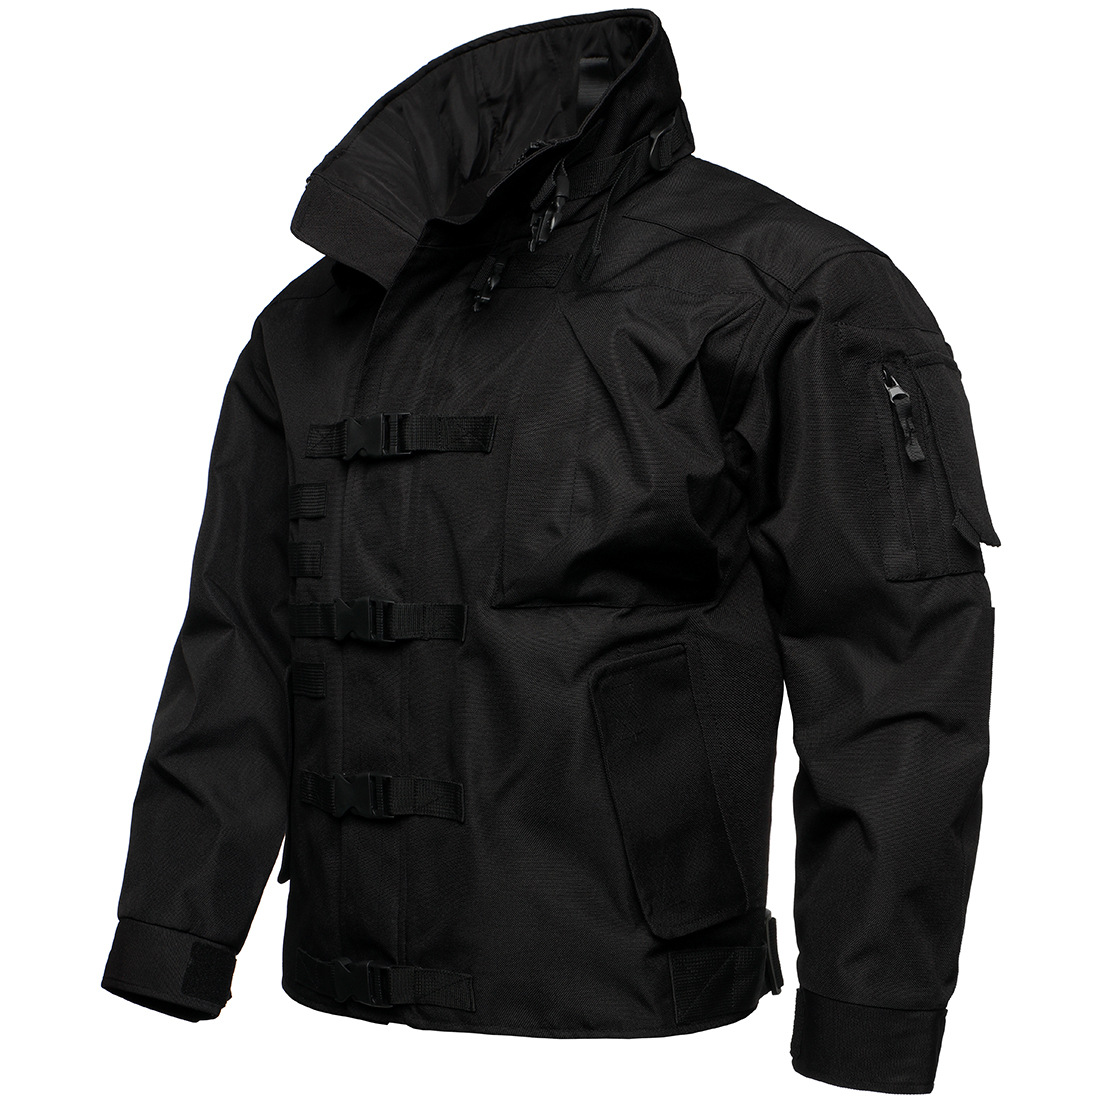
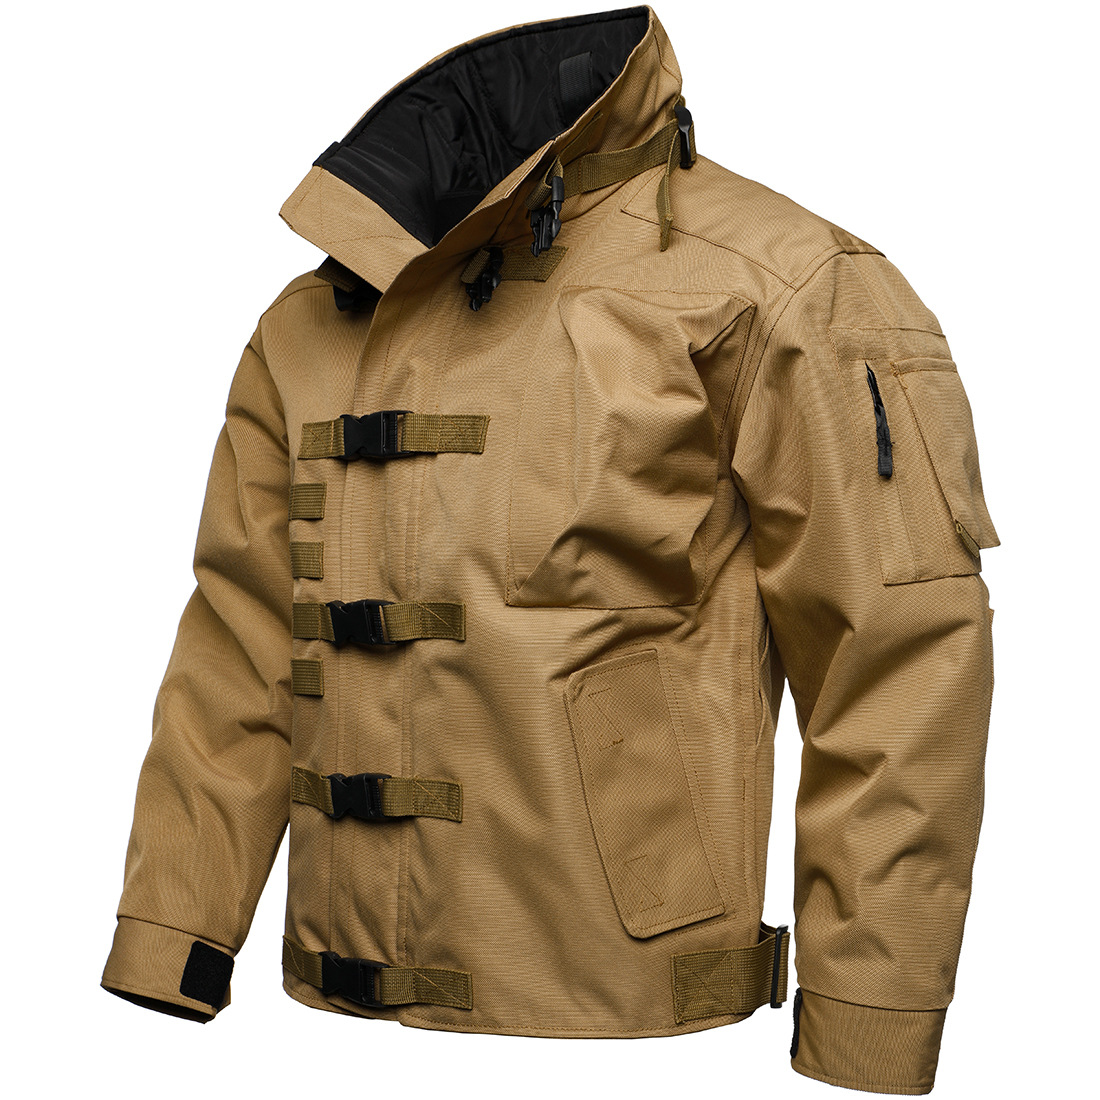
productpage개조짐

diff --git a/src/app/shop/[slug]/page.js b/src/app/shop/[slug]/page.js
@@ -2,8 +2,6 @@ import React from "react";
 import products from "../../../data/products.json"; // Adjust this path if necessary
 import Image from "next/image";
 import { notFound } from "next/navigation";
-import fs from "fs";
-import path from "path";
 import { FaCartShopping, FaStar } from "react-icons/fa6";
 import ColorAndSize from "@/components/productPage/ColorAndSize";
 import Carousel from "@/components/productPage/Carousel";
@@ -17,50 +15,45 @@ export default function ProductPage({ params }) {
   }
 
   return (
-    <div className="flex w-full justify-center">
-      <div className="w-3/4 p-6">
+    <div className="flex w-full justify-center bg-white text-slate-800">
+      <div className="max-w-4xl p-6">
         {/* Product Header with Carousel */}
         <div className="flex flex-col lg:flex-row items-center lg:items-center justify-center gap-6 mb-10">
-          {/* Carousel */}
           <Carousel product={product} />
-          <div className="max-w-6xl mx-auto p-6">
-            <div className="flex flex-col md:flex-row gap-8">
-              <div className="space-y-4">
-                <h1 className="text-3xl font-bold">{product.name}</h1>
-                <div className="flex items-center space-x-2">
-                  <span className="text-2xl font-semibold">
-                    ${product.price}
-                  </span>
-                  <div>
-                    <div className="flex items-center">
-                      {[...Array(5)].map((_, i) => (
-                        <FaStar
-                          key={i}
-                          className={`w-3 h-3 ${
-                            i < Math.floor(product.rating)
-                              ? "text-yellow-400"
-                              : "text-gray-300"
-                          }`}
-                        />
-                      ))}
-                    </div>
-                    <a href="#" className="text-xs text-blue-600">
-                      {product.reviewCount}개의 리뷰
-                    </a>
-                  </div>
-                </div>
-                {/* 컬러와사이즈 (client side) */}
-                <ColorAndSize colors={product.colors} sizes={product.sizes} />
-
-                <button className="w-full bg-blue-600 text-white py-3 rounded-lg flex items-center justify-center">
-                  <FaCartShopping className="mr-2" />
-                  Add to cart
-                </button>
-
+          <div className="mx-auto p-6">
+            {/* 오른쪽전체간격 */}
+            <div className="space-y-8">
+              <h1 className="text-3xl font-bold">{product.name}</h1>
+              <p className="text-gray-400">{product.description}</p>
+              <div className="flex items-center space-x-2">
+                <span className="text-2xl font-semibold">
+                  {product.price}원
+                </span>
                 <div>
-                  <p className="text-gray-600">{product.description}</p>
+                  <div className="flex items-center">
+                    {[...Array(5)].map((_, i) => (
+                      <FaStar
+                        key={i}
+                        className={`w-3 h-3 ${
+                          i < Math.floor(product.rating)
+                            ? "text-yellow-400"
+                            : "text-gray-300"
+                        }`}
+                      />
+                    ))}
+                  </div>
+                  <a href="#" className="text-xs text-primary">
+                    {product.reviewCount}개의 리뷰
+                  </a>
                 </div>
               </div>
+              {/* 컬러와사이즈 (client side) */}
+              <ColorAndSize colors={product.colors} sizes={product.sizes} />
+
+              <button className="w-full bg-primary text-white py-3 rounded-lg flex items-center justify-center">
+                <FaCartShopping className="mr-2" />
+                장바구니담기
+              </button>
             </div>
           </div>
         </div>

diff --git a/src/components/productPage/Carousel.js b/src/components/productPage/Carousel.js
@@ -2,11 +2,12 @@ import React from "react";
 import fs from "fs";
 import path from "path";
 import Image from "next/image";
+import Link from "next/link";
 
 export default function Carousel({ product }) {
   return (
     <div>
-      <div className="carousel">
+      <div className="carousel max-w-xl">
         {[1, 2, 3, 4, 5].map((index) => {
           const imagePath = `/products/${product.id}/thumbnail_${index}.jpg`;
           const imageExists = fs.existsSync(
@@ -16,7 +17,7 @@ export default function Carousel({ product }) {
           if (imageExists) {
             return (
               <div
-                id={`slide${index + 1}`}
+                id={`slide${index}`}
                 key={index}
                 className="carousel-item relative w-full"
               >
@@ -27,20 +28,26 @@ export default function Carousel({ product }) {
                   height={500}
                   className="object-cover"
                 />
-                <div className="absolute left-5 right-5 top-1/2 flex -translate-y-1/2 transform justify-between">
+                <div className="flex absolute text-3xl text-slate-300 left-5 right-5 top-1/2 -translate-y-1/2 transform justify-between">
                   <a
                     href={
-                      index < 1 ? `#slide${index + 4}` : `#slide${index - 1}`
+                      index === 1
+                        ? `#slide${
+                            [2, 3, 4, 5].includes(index + 4) ? index + 4 : 1
+                          }`
+                        : `#slide${index - 1}`
                     }
-                    className="btn btn-circle"
                   >
                     ❮
                   </a>
                   <a
                     href={
-                      index > 3 ? `#slide${index - 3}` : `#slide${index + 1}`
+                      index === 5
+                        ? `#slide${
+                            [1, 2, 3, 4].includes(index - 3) ? index - 3 : 5
+                          }`
+                        : `#slide${index + 1}`
                     }
-                    className="btn btn-circle"
                   >
                     ❯
                   </a>

diff --git a/src/app/contact/page.js b/src/app/contact/page.js
@@ -15,13 +15,13 @@ export default function Contact() {
   };
 
   return (
-    <div className="container mx-auto p-4 m-16 w-1/4">
+    <div className="flex flex-col gap-4 container mx-auto p-4 m-16 w-full md:w-1/2 xl:w-1/4">
       <h1 className="text-3xl font-bold mb-4">Contact us</h1>
-      <form onSubmit={handleSubmit}>
+      <form onSubmit={handleSubmit} className="flex flex-col gap-4">
         <div className="form-control">
-          <label>Name</label>
+          <label>이름</label>
           <input
-            className="input text-black"
+            className="input text-black rounded-sm"
             type="text"
             value={name}
             onChange={(e) => setName(e?.target?.value ?? "")}
@@ -29,9 +29,9 @@ export default function Contact() {
           />
         </div>
         <div className="form-control">
-          <label>Email</label>
+          <label>이메일</label>
           <input
-            className="input text-black"
+            className="input text-black rounded-sm"
             type="email"
             value={email}
             onChange={(e) => setEmail(e?.target?.value ?? "")}
@@ -39,20 +39,20 @@ export default function Contact() {
           />
         </div>
         <div className="form-control">
-          <label>Message</label>
+          <label>메시지</label>
           <textarea
-            className="textarea text-black"
+            className="textarea text-black rounded-sm"
             value={message}
             onChange={(e) => setMessage(e?.target?.value ?? "")}
             placeholder="Your message"
           />
         </div>
-        <button type="submit" color="primary">
-          Submit
+        <button type="submit" className="btn btn-primary rounded-sm m-5">
+          메일보내기
         </button>
       </form>
       <p className="mt-4">
-        You can also email me directly at{" "}
+        B2B, 도매, 공동구매, 마케팅 문의 ▼{" "}
         <a href="mailto:tama4840@gmail.com">tama4840@gmail.com</a>
       </p>
     </div>

diff --git a/src/components/productPage/ColorAndSize.js b/src/components/productPage/ColorAndSize.js
@@ -3,10 +3,15 @@
 import React, { useState } from "react";
 
 export default function ColorAndSize({ colors, sizes }) {
+  const colorVariants = {
+    black: "bg-black",
+    olive: "bg-olive",
+    beige: "bg-beige",
+  };
   const [selectedColor, setSelectedColor] = useState("navy");
   const [selectedSize, setSelectedSize] = useState("M");
   return (
-    <div>
+    <div className="space-y-8">
       <div>
         <h3 className="font-semibold mb-2">Color</h3>
         <div className="flex space-x-2">
@@ -14,8 +19,8 @@ export default function ColorAndSize({ colors, sizes }) {
             <button
               key={color}
               className={`w-8 h-8 rounded-full ${
-                color === "" ? `bg-${color}-600` : "bg-gray-400"
-              } ${selectedColor === color ? `ring-2 ring-${color}-500` : ""}`}
+                color !== "" ? `${colorVariants[color]}` : "bg-gray-400"
+              } ${selectedColor === color ? `ring-2 ring-primary` : ""}`}
               onClick={() => setSelectedColor(color)}
             />
           ))}
@@ -30,7 +35,7 @@ export default function ColorAndSize({ colors, sizes }) {
               key={size}
               className={`px-3 py-1 border rounded ${
                 selectedSize === size
-                  ? "bg-blue-600 text-white"
+                  ? "bg-primary text-white"
                   : "bg-white text-black"
               }`}
               onClick={() => setSelectedSize(size)}

diff --git a/tailwind.config.js b/tailwind.config.js
@@ -5,8 +5,17 @@ module.exports = {
     "./src/components/**/*.{js,ts,jsx,tsx,mdx}",
     "./src/app/**/*.{js,ts,jsx,tsx,mdx}",
   ],
+  theme: {
+    extend: {
+      colors: {
+        olive: "#242E16",
+        navy: "#000080",
+        beige: "#9f8473",
+      },
+    },
+  },
   daisyui: {
-    themes: ["cmyk"],
+    themes: ["cmyk", "lofi"],
   },
   plugins: [require("daisyui")],
 };

diff --git a/src/components/main/Hero.js b/src/components/main/Hero.js
@@ -11,7 +11,7 @@ export default function Hero() {
           objectFit="cover"
         />
       </div>
-      <div className="relative z-10 text-left -inset-x-40">
+      <div className="text-fuck relative z-10 text-left -inset-x-40">
         <h1 className="text-5xl font-bold mb-4">
           역사를 뒤집고 승리를 쟁취하라
         </h1>

diff --git a/src/app/blog/page.js b/src/app/blog/page.js
@@ -21,7 +21,6 @@ export default function BlogPage() {
 
   return (
     <div className="p-6">
-      <h1 className="text-2xl font-bold mb-6">Blog</h1>
       <ul>
         {posts.map((post) => (
           <li key={post.slug}>
